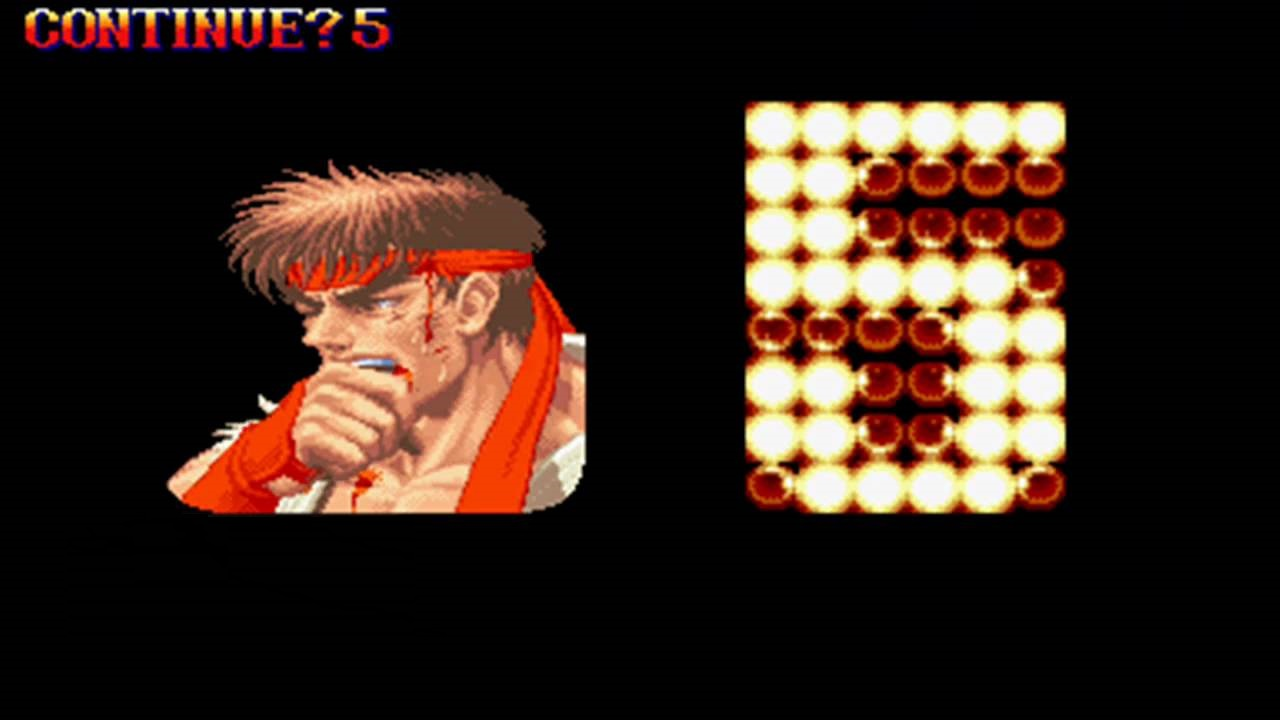
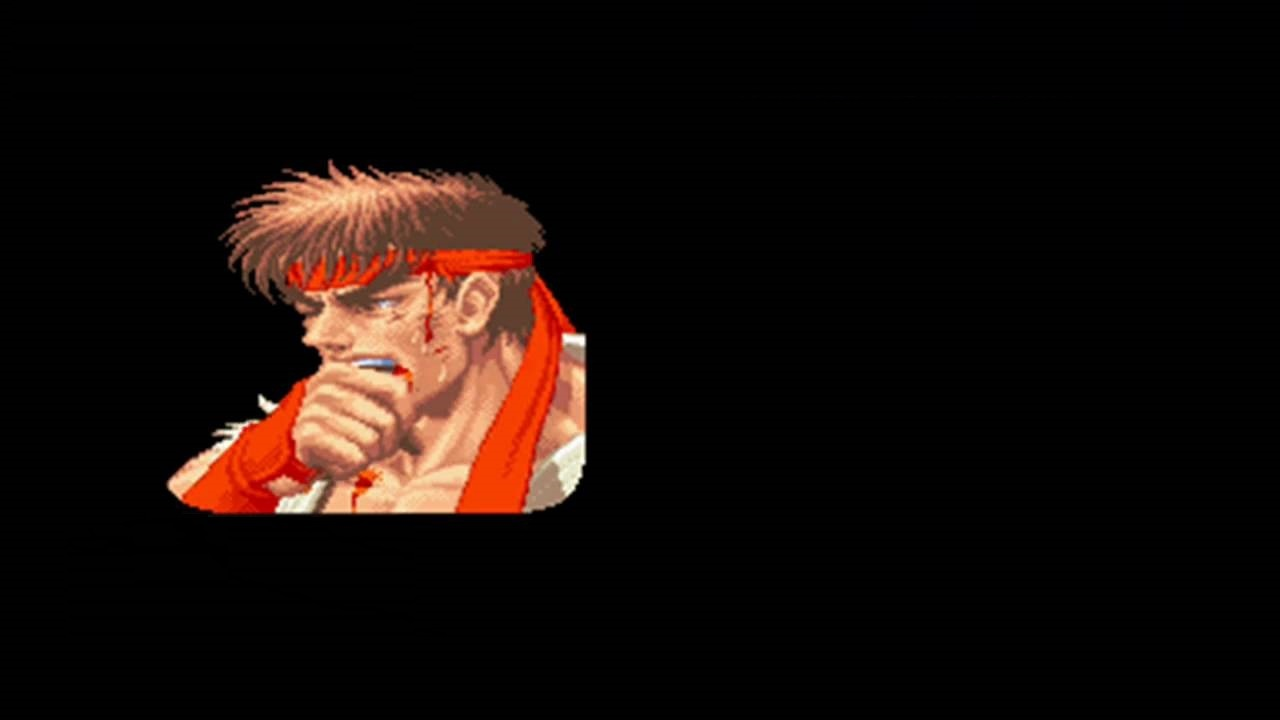
GameOver Screen

Changed region(s): [[0.5625, 0.1222, 0.8438, 0.7333], [0.0, 0.0, 0.3125, 0.0917]]

diff --git a/javascript.js b/javascript.js
@@ -333,41 +333,20 @@ function finaliza_jogo() {
     atualizarLevelJogo('KO');
     backgroundSong.pause();
     death.play();
-    you.play();
+    //you.play();
     clearTimeout(animObstaculo);
     setTimeout(function(){
-      lose.play();
+      you.play();
     },1000);
+        setTimeout(function(){
+      lose.play();
+    },2000);
     setTimeout(function(){
       console.log('Waiting...');
     },5000);
 
-    var el = window.document.getElementById('obstaculo1');
-    var elClone = el.cloneNode(true);
-
-    el.parentNode.replaceChild(elClone, el);
-
-    //var divEndGame = window.document.getElementById('end-game');
-    //divEndGame.style.display = 'block';
-    var count = 5;
-    var countTempo = 1000;
-    var intervalo = setInterval(function(){
-            if (count < 0) {
-                clearInterval(intervalo);
-                return;
-            };
-            //var smallCount = window.document.getElementById('count-small');
-            //smallCount.innerHTML = "CONTINUE? " + count;
-
-            //var bigCount = window.document.getElementById('count-big');
-            //bigCount.innerHTML = count;
-
-            count = count - 1;
-        },1000);
-        countTempo += 1000;
-
-    // após o alert, inicia um novo jogo
-    //inicio();
+    limparListenerObstaculo();
+    mostrarTelaGameOver();
 }
 
 function atualizarLevelJogo(lvl){
@@ -393,4 +372,60 @@ function atualizarLevelJogo(lvl){
         var elSpan = window.document.getElementById('round');
         elSpan.innerHTML = '';
     }, 3000);
+}
+
+function limparListenerObstaculo(){
+    var el = window.document.getElementById('obstaculo1');
+    var elClone = el.cloneNode(true);
+
+    el.parentNode.replaceChild(elClone, el);
+}
+
+function mostrarTelaGameOver(){
+    atualizarDisplayDivEndGame('block');
+    
+    var count = 5;
+    var intervalo = setInterval(function(){
+        if (count < 0) {
+            clearInterval(intervalo);
+            atualizarContagemGameOver("");
+            exibirBotaoReinicio();
+            return;
+        };
+        atualizarContagemGameOver(count);
+        count = count - 1;
+    },1000);
+}
+
+function atualizarContagemGameOver(texto){
+    var smallCount = window.document.getElementById('count-small');
+    var continueCount = "";
+    if(texto != ""){
+        continueCount = "CONTINUE? " + texto;
+    }
+    smallCount.innerHTML = continueCount;
+    
+    var bigCount = window.document.getElementById('count-big');     
+    bigCount.innerHTML = texto;
+}
+
+function atualizarDisplayDivEndGame(display){
+    var divEndGame = window.document.getElementById('end-game');
+    divEndGame.style.display = display;
+}
+
+function exibirBotaoReinicio(){
+    var spanRestartGame = window.document.createElement('span');
+    spanRestartGame.innerHTML = "CLICK HERE TO RESTART GAME";
+    spanRestartGame.setAttribute('onclick', 'restartGame();');
+    spanRestartGame.setAttribute('class', 'font-street-fighter restart-game');
+
+    var divEndGame = window.document.getElementById('end-game');
+    divEndGame.appendChild(spanRestartGame);
+}
+
+function restartGame(){
+    atualizarDisplayDivEndGame('none');
+    // FIXME Voltar os listener do obstaculo!
+    inicio();
 }

diff --git a/styles.css b/styles.css
@@ -755,3 +755,8 @@
     left: 681px;
     top: 92px;
 }
+.end-game span.restart-game {
+    font-size: 38px;
+    left: 70px;
+    top: 50px;
+}
